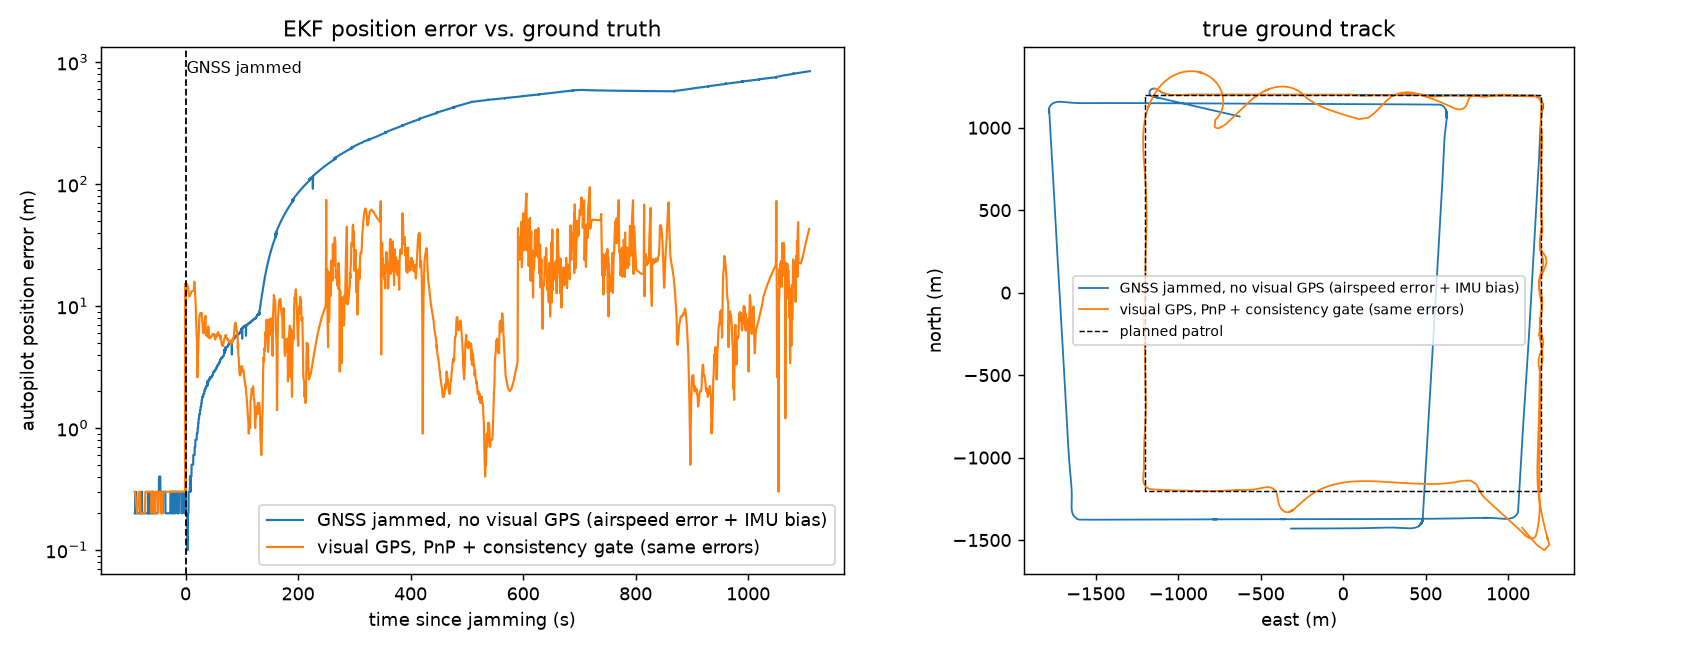
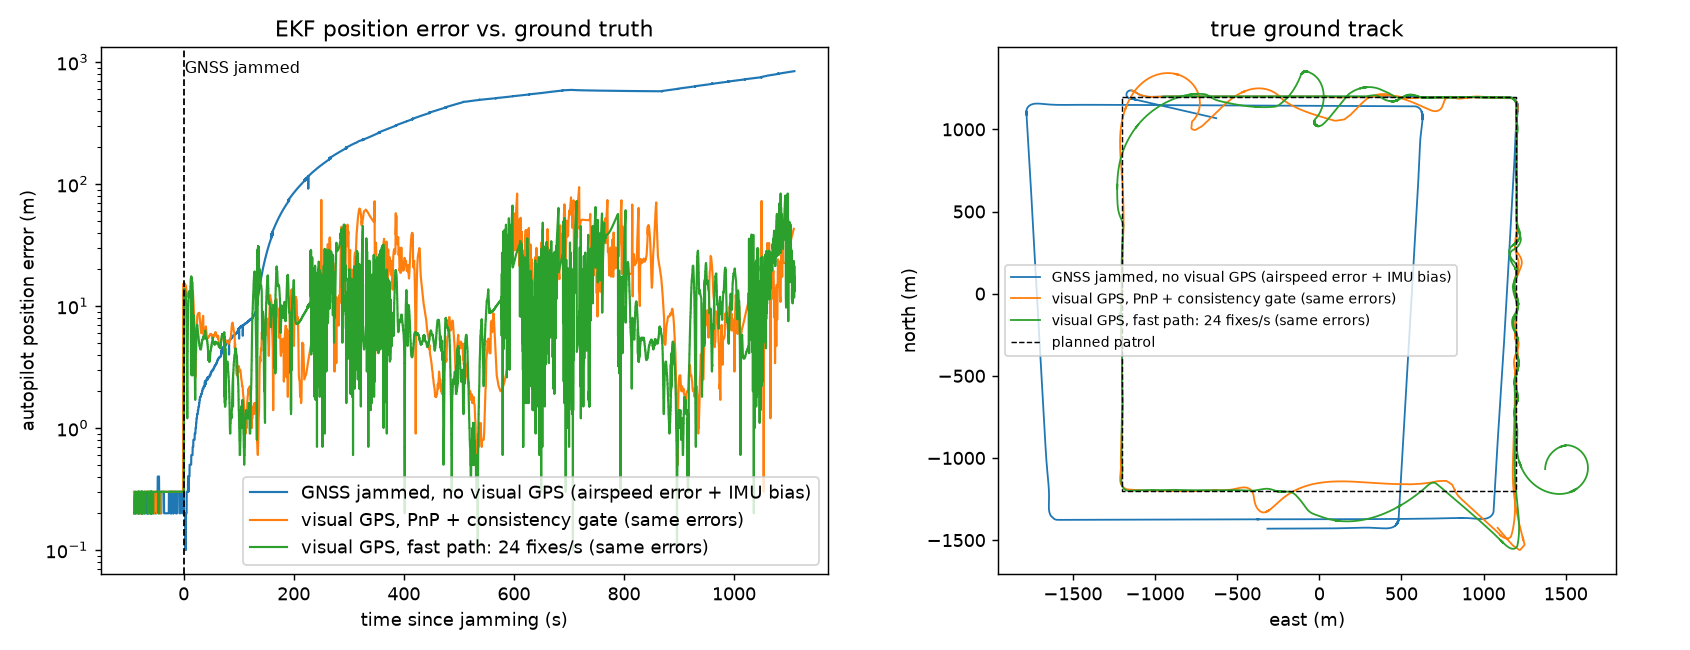
Sprint 3b: fast path in closed loop (24 fixes/s, EKF median 10.6 -> 6.3 m)
18.5 min GNSS jamming over real drone imagery with sensor errors:
- before: 1.0 fix/s, 0.9 s latency, EKF median 10.6 m / p95 50.6 m / max 94 m
- fast:   24 fixes/s, 0.18 s latency, EKF median 6.3 m / p95 28.8 m / max 84 m
- no visual GPS: 840 m and growing
README speed section, updated realistic comparison plot.

diff --git a/sim/plot_runs.py b/sim/plot_runs.py
@@ -19,7 +19,8 @@ LABELS = {"control": "GNSS jammed, no visual GPS", "visual": "visual GPS, image-
           "visual_trueatt": "visual GPS, IMU attitude correction (true attitude)",
           "visual_pnp": "visual GPS, PnP pose (no IMU attitude)",
           "err_control": "GNSS jammed, no visual GPS (airspeed error + IMU bias)",
-          "err_gated": "visual GPS, PnP + consistency gate (same errors)"}
+          "err_gated": "visual GPS, PnP + consistency gate (same errors)",
+          "err_gated_fast": "visual GPS, fast path: 24 fixes/s (same errors)"}
 
 
 def load(tag: str) -> pd.DataFrame:

diff --git a/README.md b/README.md
@@ -127,10 +127,19 @@ Ground truth comes from SITL's `SIMSTATE`.
 | 18.5 min jammed, real-imagery world, sensor errors | EKF error median | p95 | max | at end |
 |---|---|---|---|---|
 | no visual GPS (dead reckoning) | 498 m | 758 m | 840 m | **840 m, growing** |
-| **visual GPS: PnP + consistency gate, position-only** | **10.6 m** | **50.6 m** | **94 m** | 43 m |
+| visual GPS: PnP + consistency gate, position-only (1.0 fix/s, 0.9 s latency) | 10.6 m | 50.6 m | 94 m | 43 m |
+| **same, fast path (24 fixes/s, 0.18 s latency)** | **6.3 m** | **28.8 m** | **84 m** | 17 m |
 
-Visual fix error: **10.9 m median over real drone photos** (p95 29.5 m, 80 % of frames accepted) vs. 5.2 m over the
-satellite fallback. 2 of 1 155 sent fixes were > 50 m off. Single run per configuration.
+Visual fix error: **~11–12 m median over real drone photos** (p95 ~30 m, 72–80 % of frames accepted) vs. ~5 m over the
+satellite fallback; ~0.15 % of sent fixes were > 50 m off. With the fast path the EKF error over drone-photo ground
+is 12.2 m median (17.7 m before) and 4.7 m over the satellite fallback. Single run per configuration.
+
+**Speed.** Profiling a 246 ms fix showed the time was not in the networks: re-reading the GeoTIFF for every candidate
+(79 ms, far worse through WSL's /mnt/c) and re-running SuperPoint on the same map crops (57 ms). Pre-flight map
+preparation (`gdnav/mapfeatures.py`: the area map in RAM + SuperPoint keypoints computed once, 13 s for 4.6 × 4.6 km)
+and single-window tracking (one fp16 LightGlue call around the prior, no retrieval) give **33 ms per tracking fix
+(7.2×) with unchanged accuracy** on 160 real-imagery frames (median 7.4 vs 7.0 m, p95 28.9 vs 32.2 m;
+`scripts/compare_fast.py`); global relocalization 444 → 159 ms.
 
 ### What it took (each item was a failure first)
 1. **Wrong-but-confident matches.** On real imagery 2.6 % of confident fixes were > 50 m off, and one triggered an
@@ -229,5 +238,6 @@ python sim/plot_runs.py gnss_jamming_realistic.png visloc03_real err_control err
 - [x] Sprint 2 — closed loop in ArduPlane SITL + Gazebo: visual GPS via `GPS_INPUT`, GNSS jamming, PnP visual pose
 - [x] Sprint 3a — real-image pose validation, realistic sim (drone-photo ground, airspeed, sensor errors), consistency gate, robust EKF integration
 - [x] Sprint 3b.1 — learned fix-confidence model vs. rule gate (negative result: rules kept)
-- [ ] Sprint 3b — speed (ONNX/TensorRT), localizability-aware route planning (A* vs RL), target detection + GNSS-free target geolocation, oblique matching in turns, visual landing
+- [x] Sprint 3b.2 — speed: pre-flight map features + single-window tracking (7× faster, EKF median 10.6 → 6.3 m)
+- [ ] Sprint 3b — localizability-aware route planning (A* vs RL), target detection + GNSS-free target geolocation, oblique matching in turns, visual landing
 - [ ] Sprint 4 — ONNX/TensorRT latency, demo video, model release
